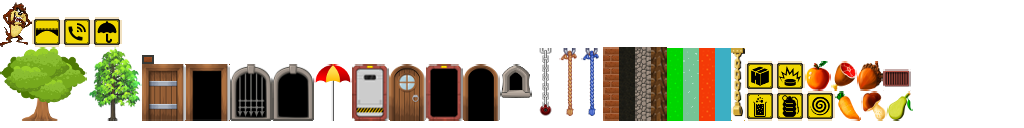
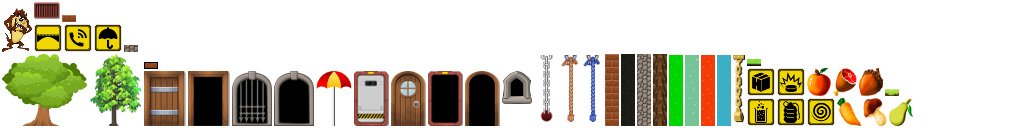
Fixed some GUI bugs

Changed region(s): [[0.0, 0.0, 0.9062, 1.0]]

diff --git a/core/src/ru/mitrakov/self/rush/ui/Gui.java b/core/src/ru/mitrakov/self/rush/ui/Gui.java
@@ -126,7 +126,7 @@ public class Gui extends Actor {
             texturesDown.put(clazz, m);
         }
         // static up textures, each with 4 styles
-        for (Class clazz : new Class[]{Block.class, LadderTop.class, RopeLine.class, Water.class,
+        for (Class clazz : new Class[]{Block.class, Stair.class, LadderTop.class, RopeLine.class, Water.class,
                 DecorationStatic.class, DecorationWarning.class}) {
             IntMap<TextureRegion> m = new IntMap<TextureRegion>(STYLES_COUNT); // .... GC!
             for (int i = 0; i < STYLES_COUNT; i++) {
@@ -247,7 +247,7 @@ public class Gui extends Actor {
                 for (int i = 0; i < Field.WIDTH; i++) {
                     Cell cell = field.cells[j * Field.WIDTH + i]; // cell != NULL (assert omitted)
                     float bottomWidth = getBottomWidth(cell), bottomHeight = getBottomHeight(cell);
-                    if (cell.objectExists(Box.class)) {
+                    if (cell.objectExists(CellObjectRaisable.class)) {
                         if (texturesOverlay.containsKey(Box.class))
                             bottomHeight += texturesOverlay.get(Box.class).getRegionHeight();
                     }

diff --git a/core/src/ru/mitrakov/self/rush/model/Cells.java b/core/src/ru/mitrakov/self/rush/model/Cells.java
@@ -52,6 +52,12 @@ public class Cells {
         }
     }
 
+    public static abstract class CellObjectRaisable extends CellObject {
+        public CellObjectRaisable(int id, int xy) {
+            super(id, xy);
+        }
+    }
+
     public static class Block extends CellObject {
         public Block(int xy) {
             super(0x01, xy);
@@ -115,7 +121,7 @@ public class Cells {
         }
     }
 
-    public static class Stair extends CellObject {
+    public static class Stair extends CellObjectRaisable {
         public Stair(int xy) {
             super(0x0B, xy);
         }
@@ -289,7 +295,7 @@ public class Cells {
         }
     }
 
-    public static class Box extends CellObject {
+    public static class Box extends CellObjectRaisable {
         public Box(int xy, int number) {
             super(0x2F, xy);
             this.number = number;
